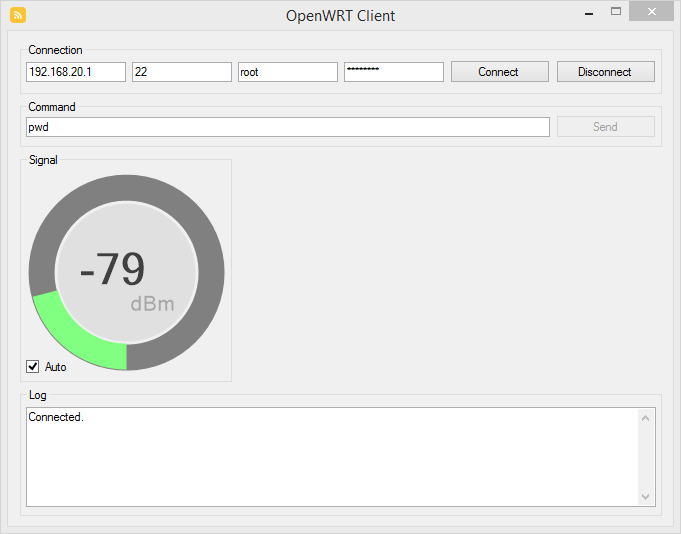
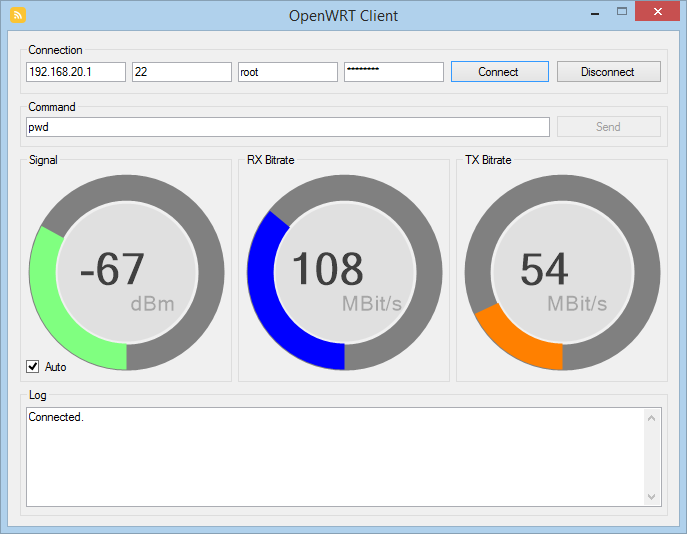
[UPD] Add TX Bitrate/RX Bitrate

diff --git a/OpenWRT.Client/FrmMain.Designer.cs b/OpenWRT.Client/FrmMain.Designer.cs
@@ -46,10 +46,16 @@
             this.grpBoxCommand = new System.Windows.Forms.GroupBox();
             this.grpBoxSignal = new System.Windows.Forms.GroupBox();
             this.grpBoxLog = new System.Windows.Forms.GroupBox();
+            this.grpBoxTXBitrate = new System.Windows.Forms.GroupBox();
+            this.cirPbTXBitrate = new CircularProgressBar.CircularProgressBar();
+            this.grpBoxRXBitrate = new System.Windows.Forms.GroupBox();
+            this.cirPbRXBitrate = new CircularProgressBar.CircularProgressBar();
             this.grpBoxConnection.SuspendLayout();
             this.grpBoxCommand.SuspendLayout();
             this.grpBoxSignal.SuspendLayout();
             this.grpBoxLog.SuspendLayout();
+            this.grpBoxTXBitrate.SuspendLayout();
+            this.grpBoxRXBitrate.SuspendLayout();
             this.SuspendLayout();
             // 
             // btnConnect
@@ -68,14 +74,14 @@
             this.txtLog.Multiline = true;
             this.txtLog.Name = "txtLog";
             this.txtLog.ScrollBars = System.Windows.Forms.ScrollBars.Vertical;
-            this.txtLog.Size = new System.Drawing.Size(630, 100);
+            this.txtLog.Size = new System.Drawing.Size(636, 100);
             this.txtLog.TabIndex = 2;
             // 
             // btnSend
             // 
             this.btnSend.Location = new System.Drawing.Point(536, 15);
             this.btnSend.Name = "btnSend";
-            this.btnSend.Size = new System.Drawing.Size(100, 23);
+            this.btnSend.Size = new System.Drawing.Size(106, 23);
             this.btnSend.TabIndex = 3;
             this.btnSend.Text = "Send";
             this.btnSend.UseVisualStyleBackColor = true;
@@ -85,7 +91,7 @@
             // 
             this.btnDisconnect.Location = new System.Drawing.Point(536, 17);
             this.btnDisconnect.Name = "btnDisconnect";
-            this.btnDisconnect.Size = new System.Drawing.Size(100, 23);
+            this.btnDisconnect.Size = new System.Drawing.Size(106, 23);
             this.btnDisconnect.TabIndex = 4;
             this.btnDisconnect.Text = "Disconnect";
             this.btnDisconnect.UseVisualStyleBackColor = true;
@@ -134,7 +140,7 @@
             // 
             // timer1
             // 
-            this.timer1.Interval = 1500;
+            this.timer1.Interval = 2000;
             this.timer1.Tick += new System.EventHandler(this.Timer1_Tick);
             // 
             // chkBoxAuto
@@ -191,7 +197,7 @@
             this.grpBoxConnection.Controls.Add(this.btnConnect);
             this.grpBoxConnection.Location = new System.Drawing.Point(12, 12);
             this.grpBoxConnection.Name = "grpBoxConnection";
-            this.grpBoxConnection.Size = new System.Drawing.Size(642, 51);
+            this.grpBoxConnection.Size = new System.Drawing.Size(648, 51);
             this.grpBoxConnection.TabIndex = 12;
             this.grpBoxConnection.TabStop = false;
             this.grpBoxConnection.Text = "Connection";
@@ -202,7 +208,7 @@
             this.grpBoxCommand.Controls.Add(this.btnSend);
             this.grpBoxCommand.Location = new System.Drawing.Point(12, 69);
             this.grpBoxCommand.Name = "grpBoxCommand";
-            this.grpBoxCommand.Size = new System.Drawing.Size(642, 47);
+            this.grpBoxCommand.Size = new System.Drawing.Size(648, 47);
             this.grpBoxCommand.TabIndex = 13;
             this.grpBoxCommand.TabStop = false;
             this.grpBoxCommand.Text = "Command";
@@ -223,16 +229,106 @@
             this.grpBoxLog.Controls.Add(this.txtLog);
             this.grpBoxLog.Location = new System.Drawing.Point(12, 357);
             this.grpBoxLog.Name = "grpBoxLog";
-            this.grpBoxLog.Size = new System.Drawing.Size(642, 128);
+            this.grpBoxLog.Size = new System.Drawing.Size(648, 128);
             this.grpBoxLog.TabIndex = 15;
             this.grpBoxLog.TabStop = false;
             this.grpBoxLog.Text = "Log";
+            // 
+            // grpBoxTXBitrate
+            // 
+            this.grpBoxTXBitrate.Controls.Add(this.cirPbTXBitrate);
+            this.grpBoxTXBitrate.Location = new System.Drawing.Point(448, 122);
+            this.grpBoxTXBitrate.Name = "grpBoxTXBitrate";
+            this.grpBoxTXBitrate.Size = new System.Drawing.Size(212, 229);
+            this.grpBoxTXBitrate.TabIndex = 15;
+            this.grpBoxTXBitrate.TabStop = false;
+            this.grpBoxTXBitrate.Text = "TX Bitrate";
+            // 
+            // cirPbTXBitrate
+            // 
+            this.cirPbTXBitrate.AnimationFunction = WinFormAnimation.KnownAnimationFunctions.Liner;
+            this.cirPbTXBitrate.AnimationSpeed = 500;
+            this.cirPbTXBitrate.BackColor = System.Drawing.Color.Transparent;
+            this.cirPbTXBitrate.Font = new System.Drawing.Font("Microsoft Sans Serif", 32F, System.Drawing.FontStyle.Bold);
+            this.cirPbTXBitrate.ForeColor = System.Drawing.Color.FromArgb(((int)(((byte)(64)))), ((int)(((byte)(64)))), ((int)(((byte)(64)))));
+            this.cirPbTXBitrate.InnerColor = System.Drawing.Color.FromArgb(((int)(((byte)(224)))), ((int)(((byte)(224)))), ((int)(((byte)(224)))));
+            this.cirPbTXBitrate.InnerMargin = 2;
+            this.cirPbTXBitrate.InnerWidth = -1;
+            this.cirPbTXBitrate.Location = new System.Drawing.Point(6, 19);
+            this.cirPbTXBitrate.MarqueeAnimationSpeed = 2000;
+            this.cirPbTXBitrate.Maximum = 300;
+            this.cirPbTXBitrate.Name = "cirPbTXBitrate";
+            this.cirPbTXBitrate.OuterColor = System.Drawing.Color.Gray;
+            this.cirPbTXBitrate.OuterMargin = -25;
+            this.cirPbTXBitrate.OuterWidth = 26;
+            this.cirPbTXBitrate.ProgressColor = System.Drawing.Color.FromArgb(((int)(((byte)(255)))), ((int)(((byte)(128)))), ((int)(((byte)(0)))));
+            this.cirPbTXBitrate.ProgressWidth = 26;
+            this.cirPbTXBitrate.SecondaryFont = new System.Drawing.Font("Microsoft Sans Serif", 16F);
+            this.cirPbTXBitrate.Size = new System.Drawing.Size(200, 200);
+            this.cirPbTXBitrate.StartAngle = 90;
+            this.cirPbTXBitrate.Step = 1;
+            this.cirPbTXBitrate.SubscriptColor = System.Drawing.Color.FromArgb(((int)(((byte)(166)))), ((int)(((byte)(166)))), ((int)(((byte)(166)))));
+            this.cirPbTXBitrate.SubscriptMargin = new System.Windows.Forms.Padding(0);
+            this.cirPbTXBitrate.SubscriptText = "MBit/s";
+            this.cirPbTXBitrate.SuperscriptColor = System.Drawing.Color.FromArgb(((int)(((byte)(166)))), ((int)(((byte)(166)))), ((int)(((byte)(166)))));
+            this.cirPbTXBitrate.SuperscriptMargin = new System.Windows.Forms.Padding(0);
+            this.cirPbTXBitrate.SuperscriptText = "";
+            this.cirPbTXBitrate.TabIndex = 11;
+            this.cirPbTXBitrate.Text = "1";
+            this.cirPbTXBitrate.TextMargin = new System.Windows.Forms.Padding(0);
+            this.cirPbTXBitrate.Value = 1;
+            // 
+            // grpBoxRXBitrate
+            // 
+            this.grpBoxRXBitrate.Controls.Add(this.cirPbRXBitrate);
+            this.grpBoxRXBitrate.Location = new System.Drawing.Point(230, 122);
+            this.grpBoxRXBitrate.Name = "grpBoxRXBitrate";
+            this.grpBoxRXBitrate.Size = new System.Drawing.Size(212, 229);
+            this.grpBoxRXBitrate.TabIndex = 16;
+            this.grpBoxRXBitrate.TabStop = false;
+            this.grpBoxRXBitrate.Text = "RX Bitrate";
+            // 
+            // cirPbRXBitrate
+            // 
+            this.cirPbRXBitrate.AnimationFunction = WinFormAnimation.KnownAnimationFunctions.Liner;
+            this.cirPbRXBitrate.AnimationSpeed = 500;
+            this.cirPbRXBitrate.BackColor = System.Drawing.Color.Transparent;
+            this.cirPbRXBitrate.Font = new System.Drawing.Font("Microsoft Sans Serif", 32F, System.Drawing.FontStyle.Bold);
+            this.cirPbRXBitrate.ForeColor = System.Drawing.Color.FromArgb(((int)(((byte)(64)))), ((int)(((byte)(64)))), ((int)(((byte)(64)))));
+            this.cirPbRXBitrate.InnerColor = System.Drawing.Color.FromArgb(((int)(((byte)(224)))), ((int)(((byte)(224)))), ((int)(((byte)(224)))));
+            this.cirPbRXBitrate.InnerMargin = 2;
+            this.cirPbRXBitrate.InnerWidth = -1;
+            this.cirPbRXBitrate.Location = new System.Drawing.Point(6, 19);
+            this.cirPbRXBitrate.MarqueeAnimationSpeed = 2000;
+            this.cirPbRXBitrate.Maximum = 300;
+            this.cirPbRXBitrate.Name = "cirPbRXBitrate";
+            this.cirPbRXBitrate.OuterColor = System.Drawing.Color.Gray;
+            this.cirPbRXBitrate.OuterMargin = -25;
+            this.cirPbRXBitrate.OuterWidth = 26;
+            this.cirPbRXBitrate.ProgressColor = System.Drawing.Color.Blue;
+            this.cirPbRXBitrate.ProgressWidth = 26;
+            this.cirPbRXBitrate.SecondaryFont = new System.Drawing.Font("Microsoft Sans Serif", 16F);
+            this.cirPbRXBitrate.Size = new System.Drawing.Size(200, 200);
+            this.cirPbRXBitrate.StartAngle = 90;
+            this.cirPbRXBitrate.Step = 1;
+            this.cirPbRXBitrate.SubscriptColor = System.Drawing.Color.FromArgb(((int)(((byte)(166)))), ((int)(((byte)(166)))), ((int)(((byte)(166)))));
+            this.cirPbRXBitrate.SubscriptMargin = new System.Windows.Forms.Padding(0);
+            this.cirPbRXBitrate.SubscriptText = "MBit/s";
+            this.cirPbRXBitrate.SuperscriptColor = System.Drawing.Color.FromArgb(((int)(((byte)(166)))), ((int)(((byte)(166)))), ((int)(((byte)(166)))));
+            this.cirPbRXBitrate.SuperscriptMargin = new System.Windows.Forms.Padding(0);
+            this.cirPbRXBitrate.SuperscriptText = "";
+            this.cirPbRXBitrate.TabIndex = 11;
+            this.cirPbRXBitrate.Text = "1";
+            this.cirPbRXBitrate.TextMargin = new System.Windows.Forms.Padding(0);
+            this.cirPbRXBitrate.Value = 1;
             // 
             // FrmMain
             // 
             this.AutoScaleDimensions = new System.Drawing.SizeF(6F, 13F);
             this.AutoScaleMode = System.Windows.Forms.AutoScaleMode.Font;
-            this.ClientSize = new System.Drawing.Size(665, 495);
+            this.ClientSize = new System.Drawing.Size(671, 495);
+            this.Controls.Add(this.grpBoxRXBitrate);
+            this.Controls.Add(this.grpBoxTXBitrate);
             this.Controls.Add(this.grpBoxLog);
             this.Controls.Add(this.grpBoxSignal);
             this.Controls.Add(this.grpBoxCommand);
@@ -253,6 +349,8 @@
             this.grpBoxSignal.PerformLayout();
             this.grpBoxLog.ResumeLayout(false);
             this.grpBoxLog.PerformLayout();
+            this.grpBoxTXBitrate.ResumeLayout(false);
+            this.grpBoxRXBitrate.ResumeLayout(false);
             this.ResumeLayout(false);
 
         }
@@ -275,6 +373,10 @@
         private System.Windows.Forms.GroupBox grpBoxCommand;
         private System.Windows.Forms.GroupBox grpBoxSignal;
         private System.Windows.Forms.GroupBox grpBoxLog;
+        private System.Windows.Forms.GroupBox grpBoxTXBitrate;
+        private CircularProgressBar.CircularProgressBar cirPbTXBitrate;
+        private System.Windows.Forms.GroupBox grpBoxRXBitrate;
+        private CircularProgressBar.CircularProgressBar cirPbRXBitrate;
     }
 }
 

diff --git a/SSH.Client/ClientManager.cs b/SSH.Client/ClientManager.cs
@@ -1,9 +1,5 @@
 using Renci.SshNet;
 using System;
-using System.Collections.Generic;
-using System.Linq;
-using System.Text;
-using System.Threading.Tasks;
 
 namespace SSH.Client
 {
@@ -13,6 +9,7 @@ namespace SSH.Client
 
         public bool IsConnected = false;
         public string Message = string.Empty;
+
 
         public void Connect(string host, string username, string password, int port = 22)
         {
@@ -77,23 +74,57 @@ namespace SSH.Client
             return Message;
         }
 
-        public string GetSignal()
+        public DataModel GetData()
         {
+            DataModel data = new DataModel();
+			
+			// get raw data
             string raw_data = Send("iw dev wlan0 station dump");
-
+			// split raw data by lines
             string[] array_data = raw_data.Split('\n');
-
+			// trim raw lines
             for (int i = 0; i < array_data.Length; ++i)
             {
                 array_data[i] = array_data[i].Trim();
             }
 
-            int indexSignal = Array.FindIndex(array_data, row => row.StartsWith("signal:"));
+            // get 'signal'
+            data.Signal = GetSignal(array_data);
+            // get 'tx bitrate'
+            data.TX_Bitrate = GetTX_Bitrate(array_data);
+            // get 'rx bitrate'
+            data.RX_Bitrate = GetRX_Bitrate(array_data);
 
-            if (indexSignal >= 0)
-            {
-                return array_data[indexSignal].Split(':')[1].Split('[')[0].Trim();
-            }
+            return data;
+        }
+
+        private string GetSignal(string[] data)
+        {
+            // get raw line 'signal'
+            int index = Array.FindIndex(data, row => row.StartsWith("signal:"));
+            // split, trim raw line 'signal'
+            if (index >= 0)
+                return data[index].Split(':')[1].Split('[')[0].Trim();
+            else
+                return string.Empty;
+        }
+
+        private string GetTX_Bitrate(string[] data)
+        {
+            int index = Array.FindIndex(data, row => row.StartsWith("tx bitrate:"));
+            // split, trim raw line 'tx bitrate'
+            if (index >= 0)
+                return data[index].Split(':')[1].Trim().Split(' ')[0].Trim().Split('.')[0];
+            else
+                return string.Empty;
+        }
+
+        private string GetRX_Bitrate(string[] data)
+        {
+            int index = Array.FindIndex(data, row => row.StartsWith("rx bitrate:"));
+            // split, trim raw line 'rx bitrate'
+            if (index >= 0)
+                return data[index].Split(':')[1].Trim().Split(' ')[0].Trim().Split('.')[0];
             else
                 return string.Empty;
         }

diff --git a/OpenWRT.Client/FrmMain.cs b/OpenWRT.Client/FrmMain.cs
@@ -45,10 +45,16 @@ namespace OpenWRT.Client
         {
             if (clientManager.IsConnected)
             {
-                string value = clientManager.GetSignal();
+                DataModel data = clientManager.GetData();
 
-                cirPbSignal.Value = int.Parse(value) + 100;
-                cirPbSignal.Text = value;
+                cirPbSignal.Value = int.Parse(data.Signal) + 100;
+                cirPbSignal.Text = data.Signal;
+
+                cirPbTXBitrate.Value = int.Parse(data.TX_Bitrate);
+                cirPbTXBitrate.Text = data.TX_Bitrate;
+
+                cirPbRXBitrate.Value = int.Parse(data.RX_Bitrate);
+                cirPbRXBitrate.Text = data.RX_Bitrate;
             }
         }
 
@@ -65,6 +71,8 @@ namespace OpenWRT.Client
 
         private void FrmMain_Load(object sender, EventArgs e)
         {
+            chkBoxAuto.Checked = true;
+
             timer1.Enabled = chkBoxAuto.Checked;
             btnSend.Enabled = !chkBoxAuto.Checked;
         }

diff --git a/SSH.Client/DataModel.cs b/SSH.Client/DataModel.cs
@@ -1,0 +1,9 @@
+namespace SSH.Client
+{
+    public class DataModel
+    {
+        public string Signal { get; set; }          // dBm
+        public string TX_Bitrate { get; set; }      // MBit/s
+        public string RX_Bitrate { get; set; }      // MBit/s
+    }
+}

diff --git a/README.md b/README.md
@@ -2,7 +2,7 @@
 
 ![Alt text](/screenshot.png?raw=true "screenshot")
 
-Tested with OpenWrt (18.06.4)
+Tested with OpenWrt (18.06.5)
 
 ### Packages
 ```
